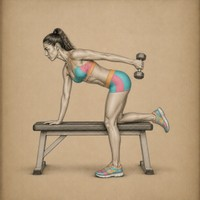
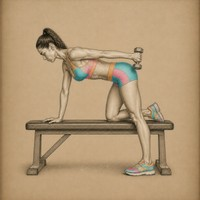
Woman: перерисован «Кикбэк с гантелью» (колено и рука на скамье)
Claude-Session: https://claude.ai/code/session_018VXD4iX1hgEabC5HJxP3H5

Changed region(s): [[0.12, 0.12, 0.87, 0.9]]

diff --git a/index.html b/index.html
@@ -730,7 +730,7 @@ if(g0){GSEL=g0;try{localStorage.setItem('gym_g',g0)}catch(e){}apply(g0)}else{ren
 input,select,textarea{font-size:16px!important}
 html{-webkit-text-size-adjust:100%;touch-action:manipulation}
 </style>
-<script>/* обновление: если новая версия не подтянулась (сеть/кэш), пробуем снова через 20 сек, до 6 раз */function ugTry(b){var k='gym_try',o=null;try{o=JSON.parse(sessionStorage.getItem(k)||'null')}catch(e){}if(!o||o.b!==b)o={b:b,n:0,t:0};if(o.n>=6||Date.now()-o.t<20000)return false;o.n++;o.t=Date.now();try{sessionStorage.setItem(k,JSON.stringify(o))}catch(e){}return true}var BUILD='20261119211426';(function(){var last=0;function chk(){var n=Date.now();if(n-last<30000)return;last=n;if(S&&S.cur&&S.cur.t0)return;try{fetch('version.json?t='+n,{cache:'no-store'}).then(function(r){return r.ok?r.json():null}).then(function(j){if(!j||!j.b||j.b==BUILD)return;if(!ugTry(j.b))return;(function(u){if(window.ugSplashOn&&window.ugSplashOn()){window.addEventListener('ugsplashdone',function(){location.replace(u)},{once:true})}else location.replace(u)})(location.pathname+'?v='+j.b+'&r='+n)}).catch(function(){})}catch(e){}}
+<script>/* обновление: если новая версия не подтянулась (сеть/кэш), пробуем снова через 20 сек, до 6 раз */function ugTry(b){var k='gym_try',o=null;try{o=JSON.parse(sessionStorage.getItem(k)||'null')}catch(e){}if(!o||o.b!==b)o={b:b,n:0,t:0};if(o.n>=6||Date.now()-o.t<20000)return false;o.n++;o.t=Date.now();try{sessionStorage.setItem(k,JSON.stringify(o))}catch(e){}return true}var BUILD='20261120115101';(function(){var last=0;function chk(){var n=Date.now();if(n-last<30000)return;last=n;if(S&&S.cur&&S.cur.t0)return;try{fetch('version.json?t='+n,{cache:'no-store'}).then(function(r){return r.ok?r.json():null}).then(function(j){if(!j||!j.b||j.b==BUILD)return;if(!ugTry(j.b))return;(function(u){if(window.ugSplashOn&&window.ugSplashOn()){window.addEventListener('ugsplashdone',function(){location.replace(u)},{once:true})}else location.replace(u)})(location.pathname+'?v='+j.b+'&r='+n)}).catch(function(){})}catch(e){}}
 document.addEventListener('visibilitychange',function(){if(!document.hidden)chk()});
 /* при запуске: сначала проверяем версию и только потом показываем экран — без мелькания старой версии */
 var de=document.documentElement,shown=false;function show(){if(shown)return;shown=true;de.style.visibility=''}
